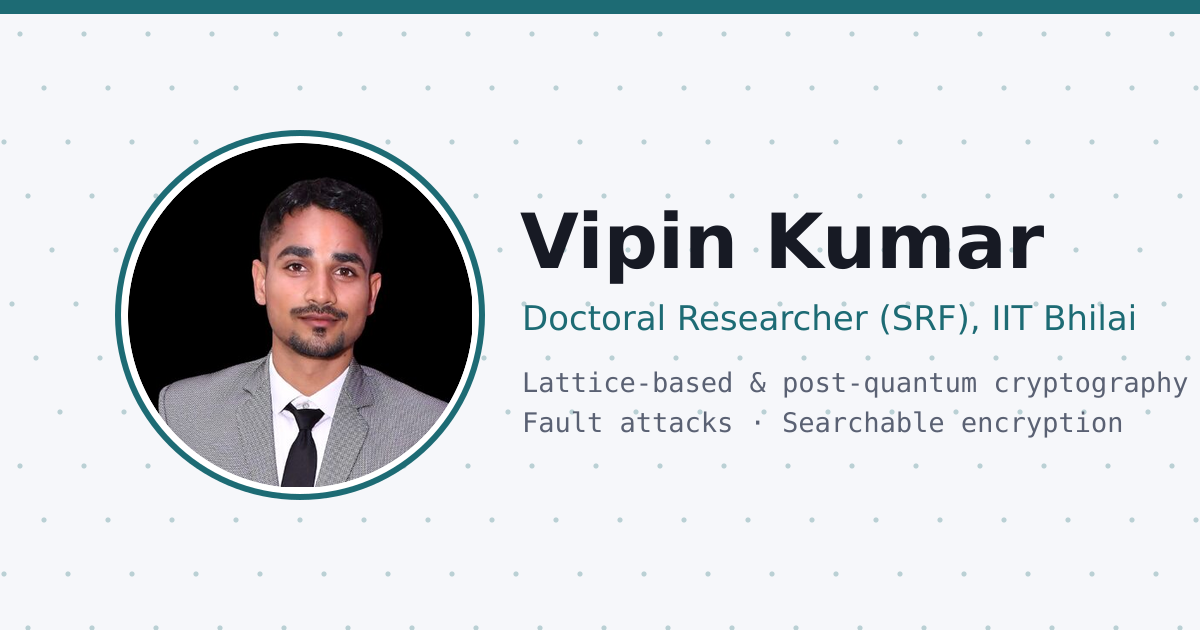
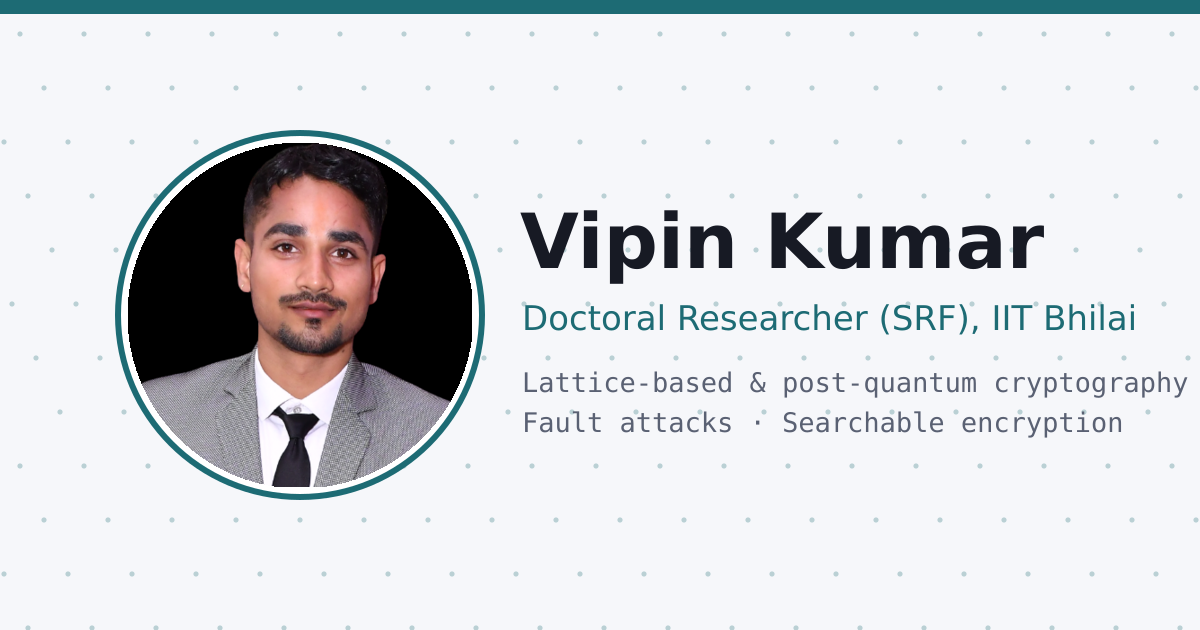
Use new profile photo, zoomed out in a black circle
- New photo assets/img/PS1.png, used exactly as supplied (no re-crop)
- Portrait circle is now a black clipped frame; --vk-photo-zoom (0.9)
  draws the photo 10% smaller so the whole head has room at the top
- Link-preview image regenerated from the new photo
- Old cropped prof_pic.jpg removed

Changed region(s): [[0.1233, 0.2111, 0.37, 0.7841]]

diff --git a/assets/css/home.css b/assets/css/home.css
@@ -259,20 +259,30 @@ html:not([data-theme-setting]) .vk-theme-btn .vk-ico-system {
   gap: 18px;
 }
 .vk-portrait {
+  /* --vk-photo-zoom < 1 zooms out: the photo (black background) is drawn smaller inside a black circle,
+     so more of it shows and the head gets some room at the top. The image file itself is never cropped. */
+  --vk-photo-zoom: 0.9;
   width: 240px;
   height: 240px;
   flex: none;
-}
-.vk-portrait img {
-  width: 100%;
-  height: 100%;
-  object-fit: cover;
+  position: relative;
+  overflow: hidden;
   border-radius: 50%;
-  display: block;
+  background: #000;
   border: 4px solid var(--vk-surface);
   box-shadow:
     0 0 0 2px var(--vk-accent),
     0 18px 40px -20px rgba(0, 0, 0, 0.45);
+}
+.vk-portrait img {
+  position: absolute;
+  left: 50%;
+  top: calc((1 - var(--vk-photo-zoom)) * 50%);
+  width: calc(100% * var(--vk-photo-zoom));
+  height: auto;
+  max-width: none;
+  transform: translateX(-50%);
+  display: block;
 }
 .vk-icon-links {
   display: flex;

diff --git a/_pages/about.md b/_pages/about.md
@@ -4,7 +4,7 @@ permalink: /
 subtitle: <strong>Doctoral Researcher (SRF)</strong>, Dept. of CSE, IIT Bhilai<br>de.ci.phe.red Lab · advised by <a href="https://dhimans.in" target="_blank" rel="noopener">Dr. Dhiman Saha</a>
 
 profile:
-  image: prof_pic.jpg
+  image: PS1.png
 ---
 
 I am a PhD scholar in the Department of Computer Science and Engineering at [IIT Bhilai](https://www.iitbhilai.ac.in), where I work on the application of lattices in cryptology. My research is being carried out under the guidance of my incredible supervisor, [Dr. Dhiman Saha](https://dhimans.in), Associate Professor in the department. Presently, my work focuses on fault-injection attacks on lattice-based cryptographic primitives. I am also working on searchable symmetric encryption schemes that support range queries. I come from a mathematics background, having completed my M.Sc. in Mathematics and Scientific Computing at MNNIT Allahabad in 2018.
